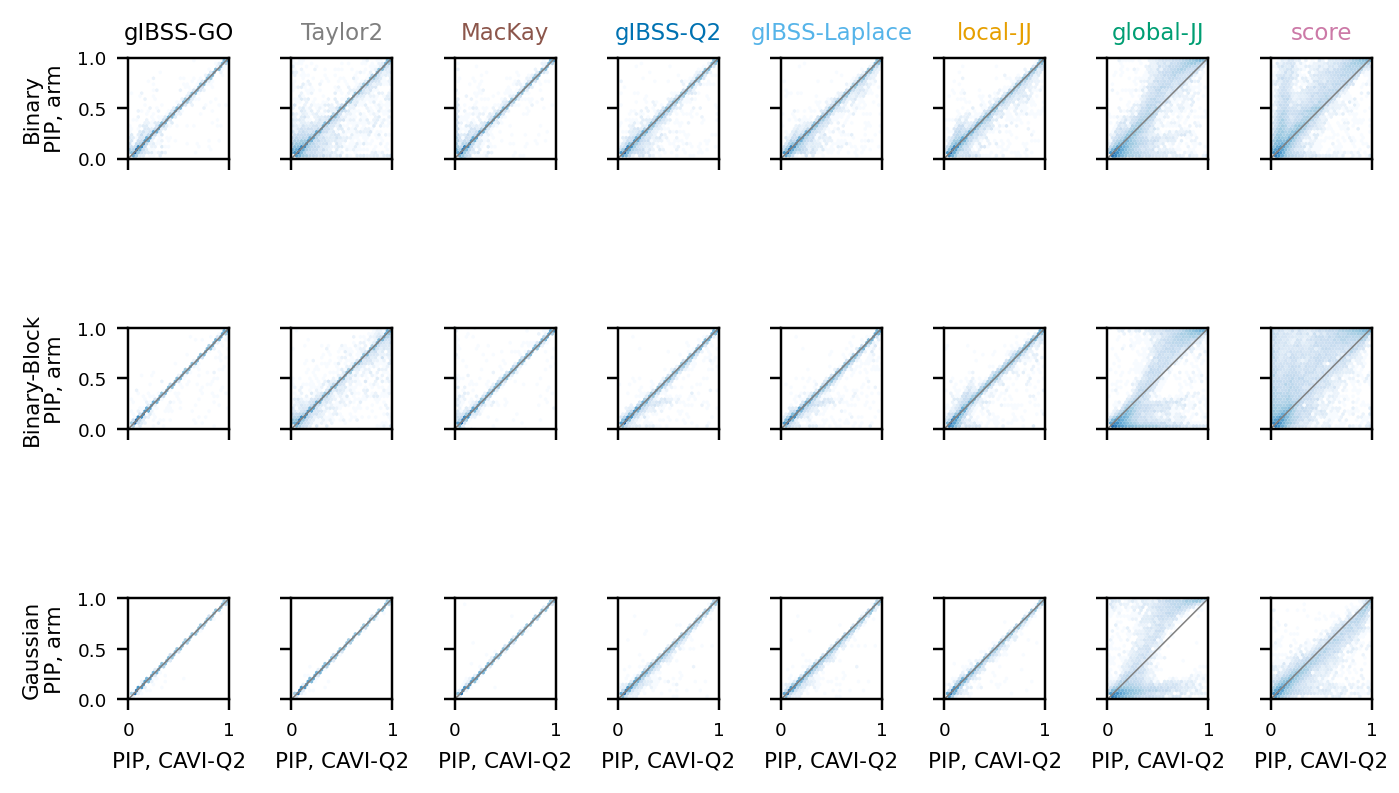
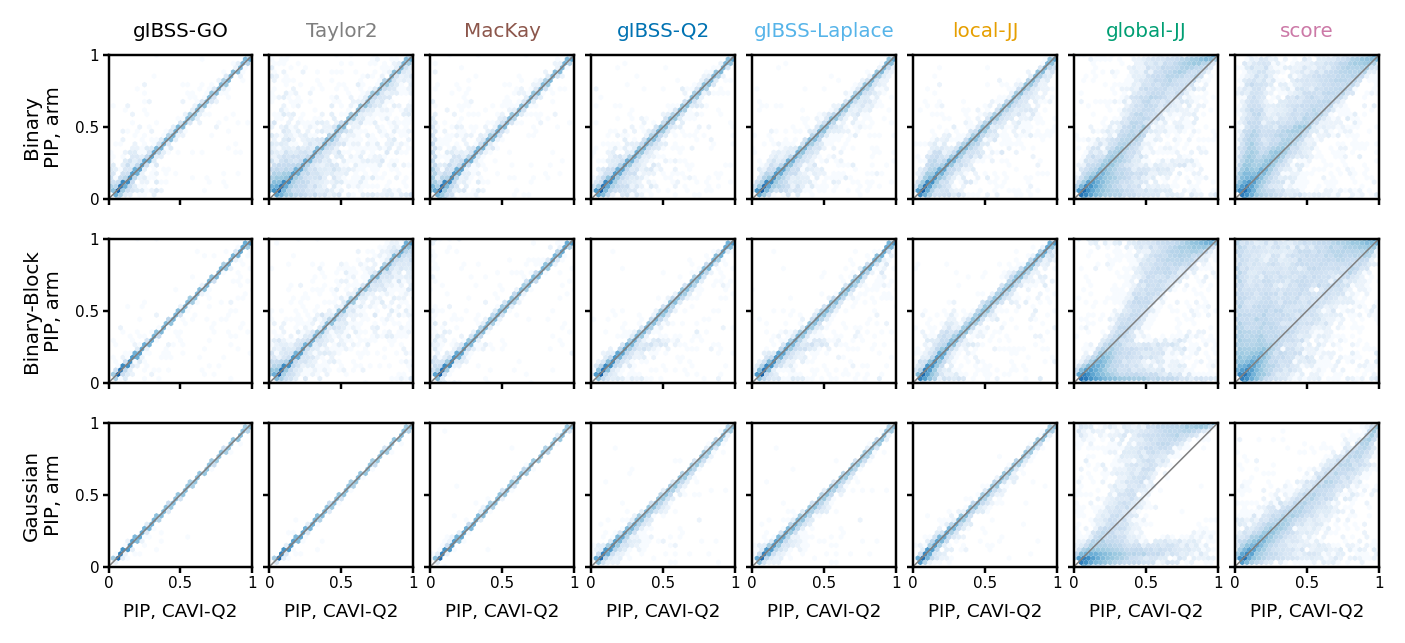
feat(twogroup): matched-alpha scatter in pip_agreement; compact PIP/alpha scatters
Per feature, the alpha of each matched component pair (either side declared), arm against
CAVI-Q2, next to the PIP scatter. The PIP sums over components, so it hides two components
trading mass; the matched alphas show it. Both scatters drop the dead space between rows and
the colliding tick labels.

Changed region(s): [[0.0, 0.6532, 1.0, 0.9642], [0.0, 0.3421, 0.9836, 0.6221], [0.0, 0.0311, 0.9836, 0.311]]

diff --git a/twogroup_experiments/analysis/logistic_laplace_simulations/pip_agreement.py b/twogroup_experiments/analysis/logistic_laplace_simulations/pip_agreement.py
@@ -97,17 +97,27 @@ def match(la: np.ndarray, lb: np.ndarray) -> np.ndarray:
     return cols
 
 
-def compare(ref_se: list[dict], arm_se: list[dict]) -> tuple[list[dict], dict, np.ndarray, np.ndarray]:
-    """Component-pair distances (matched, declared-on-either-side), per-fit summaries, and the
-    two PIP vectors (reference, arm)."""
+PIP_FLOOR = 0.05   # feature frames keep features with PIP (alpha) >= this on either side
+
+
+def compare(ref_se: list[dict], arm_se: list[dict]
+            ) -> tuple[list[dict], dict, np.ndarray, np.ndarray, tuple[np.ndarray, np.ndarray]]:
+    """Component-pair distances (matched, declared-on-either-side), per-fit summaries, the
+    two PIP vectors (reference, arm), and the matched alphas (reference, arm) of the pairs
+    either side declares, at the features where either alpha is >= PIP_FLOOR."""
     la, lbf_a = _components(ref_se)
     lb, lbf_b = _components(arm_se)
     (mu_a, var_a), (mu_b, var_b) = _moments(ref_se), _moments(arm_se)
     pa, pb = _pip(la), _pip(lb)
     dpip = np.abs(pa - pb)
-    out = []
+    out, a_ref, a_arm = [], [], []
     for i, k in enumerate(match(la, lb)):
         dr, da = bool(lbf_a[i] >= R.MIN_LOG_BF), bool(lbf_b[k] >= R.MIN_LOG_BF)
+        if dr or da:
+            ai, ak = np.exp(la[i]), np.exp(lb[k])
+            keep = np.maximum(ai, ak) >= PIP_FLOOR
+            a_ref.append(ai[keep])
+            a_arm.append(ak[keep])
         d = {**_dist(la[i], lb[k]), **_cond(la[i], mu_a[i], var_a[i], mu_b[k], var_b[k])}
         j = int(la[i].argmax())   # CAVI-Q2's top feature for this component
         out.append({**d, "kl_joint": d["kl"] + d["kl_cond"], "abs_lsd": abs(d["lsd"]),
@@ -118,15 +128,15 @@ def compare(ref_se: list[dict], arm_se: list[dict]) -> tuple[list[dict], dict, n
     fit = {"max_pip": float(dpip.max()), "argmax_pip": int(dpip.argmax()),
            "n_decl_ref": int((lbf_a >= R.MIN_LOG_BF).sum()),
            "n_decl_arm": int((lbf_b >= R.MIN_LOG_BF).sum())}
-    return out, fit, pa, pb
+    alphas = (np.concatenate(a_ref), np.concatenate(a_arm)) if a_ref else (np.empty(0), np.empty(0))
+    return out, fit, pa, pb, alphas
 
 
-PIP_FLOOR = 0.05   # feature frame keeps features with PIP >= this on either side
 
 
 def load(sources=SOURCES, results_root: str = RESULTS
-         ) -> tuple[pl.DataFrame, pl.DataFrame, pl.DataFrame]:
-    """(component-pair frame, per-fit frame, feature frame).
+         ) -> tuple[pl.DataFrame, pl.DataFrame, pl.DataFrame, pl.DataFrame]:
+    """(component-pair frame, per-fit frame, feature frame, matched-alpha frame).
 
     * component pairs: one row per matched component pair (all L), with each side's
       declaration and the smaller of the two component log BFs.
@@ -135,10 +145,12 @@ def load(sources=SOURCES, results_root: str = RESULTS
       paths so a single replicate can be re-read (``replicate_pair``).
     * features: one row per (arm, replicate, feature) with PIP >= PIP_FLOOR on either side;
       every other feature has both PIPs below the floor.
+    * matched alphas: one row per (arm, replicate, matched pair either side declares, feature)
+      with alpha >= PIP_FLOOR on either side, columns alpha_ref / alpha_arm.
 
     Cells carry exp, L, m, T, depth, gap, null."""
     cfg = loader.load_config()
-    comp_rows, fit_rows, feat_parts = [], [], []
+    comp_rows, fit_rows, feat_parts, alpha_parts = [], [], [], []
     for exp, L, sc in sources:
         by_batch: dict[str, dict] = {}
         for coll in loader.collection_method_pairs(cfg, sc).values():
@@ -162,7 +174,7 @@ def load(sources=SOURCES, results_root: str = RESULTS
                     rep = r["replicate"]
                     if rep not in ref:
                         continue
-                    pairs, fit, pa, pb = compare(ref[rep]["single_effects"], r["single_effects"])
+                    pairs, fit, pa, pb, (ar, aa) = compare(ref[rep]["single_effects"], r["single_effects"])
                     key = {"exp": exp, "L": L, "method": method, "batch_hash": bh, "rep": rep, **meta}
                     fit_rows.append({**key, **fit, "n_pairs": sum(p["declared_ref"] or p["declared_arm"] for p in pairs),
                                      "d_elbo": r["q2_elbo"] - ref[rep]["q2_elbo"],
@@ -172,9 +184,12 @@ def load(sources=SOURCES, results_root: str = RESULTS
                     feat_parts.append(pl.DataFrame({
                         "exp": exp, "L": L, "method": method, "null": meta["null"],
                         "j": keep.astype(np.int32), "pip_ref": pa[keep], "pip_arm": pb[keep]}))
+                    alpha_parts.append(pl.DataFrame({
+                        "exp": exp, "L": L, "method": method, "null": meta["null"],
+                        "alpha_ref": ar, "alpha_arm": aa}))
     return (pl.DataFrame(comp_rows, infer_schema_length=None),
             pl.DataFrame(fit_rows, infer_schema_length=None),
-            pl.concat(feat_parts))
+            pl.concat(feat_parts), pl.concat(alpha_parts))
 
 
 def replicate_pair(row: dict) -> tuple[list[dict], list[dict], list[int]]:
@@ -402,34 +417,38 @@ def bar_rows(L: int, bars=BARS, col: str = "tv") -> list:
                                       for t in bars]
 
 
-def scatter_figure(feat: pl.DataFrame, L: int = 5):
-    """Rows = experiments, columns = arms: per-feature PIP, arm vs CAVI-Q2, pooled over
-    replicates and non-null cells, as a hexbin with log counts. Only features with PIP >=
+def scatter_figure(feat: pl.DataFrame, L: int = 5, quantity: str = "pip"):
+    """Rows = experiments, columns = arms: per-feature PIP (`quantity="pip"`, the feature
+    frame) or matched alpha (`"alpha"`, the matched-alpha frame), arm vs CAVI-Q2, pooled over
+    replicates and non-null cells, as a hexbin with log counts. Only features with a value >=
     PIP_FLOOR on either side (every other feature sits in the corner below it)."""
+    name = {"pip": "PIP", "alpha": "α"}[quantity]
     import matplotlib.pyplot as plt
     from matplotlib.colors import LogNorm
     exps = EXPS
-    fig, axes = plt.subplots(3, len(ARMS), figsize=(6.5, 4.3), sharex=True, sharey=True)
+    fig, axes = plt.subplots(3, len(ARMS), figsize=(6.5, 3.1), sharex=True, sharey=True)
     sub_l = feat.filter((pl.col("L") == L) & ~pl.col("null"))
     for i, exp in enumerate(exps):
         for k, m in enumerate(ARMS):
             ax = axes[i, k]
             d = sub_l.filter((pl.col("exp") == exp) & (pl.col("method") == m))
-            ax.hexbin(d["pip_ref"].to_numpy(), d["pip_arm"].to_numpy(), gridsize=30,
+            ax.hexbin(d[f"{quantity}_ref"].to_numpy(), d[f"{quantity}_arm"].to_numpy(), gridsize=30,
                       extent=(0, 1, 0, 1), norm=LogNorm(vmin=1, vmax=1e5), cmap="Blues",
                       mincnt=1, linewidths=0)
             ax.plot([0, 1], [0, 1], color="0.5", lw=0.5)
             ax.set_xlim(0, 1)
             ax.set_ylim(0, 1)
             ax.set_aspect("equal")
-            ax.tick_params(labelsize=6)
+            ax.set_xticks([0, 0.5, 1], ["0", "0.5", "1"])
+            ax.set_yticks([0, 0.5, 1], ["0", "0.5", "1"])
+            ax.tick_params(labelsize=5, length=2, pad=1)
             if i == 0:
-                ax.set_title(R.METHOD_LABEL[m], fontsize=7.5, color=R.METHOD_COLOR[m])
+                ax.set_title(R.METHOD_LABEL[m], fontsize=6.5, color=R.METHOD_COLOR[m])
             if i == 2:
-                ax.set_xlabel("PIP, CAVI-Q2", fontsize=7)
+                ax.set_xlabel(f"{name}, CAVI-Q2", fontsize=6)
             if k == 0:
-                ax.set_ylabel(f"{DESIGN[exp]}\nPIP, arm", fontsize=7)
-    fig.tight_layout()
+                ax.set_ylabel(f"{DESIGN[exp]}\n{name}, arm", fontsize=6.5)
+    fig.tight_layout(w_pad=0.2, h_pad=0.3)
     return fig
 
 
